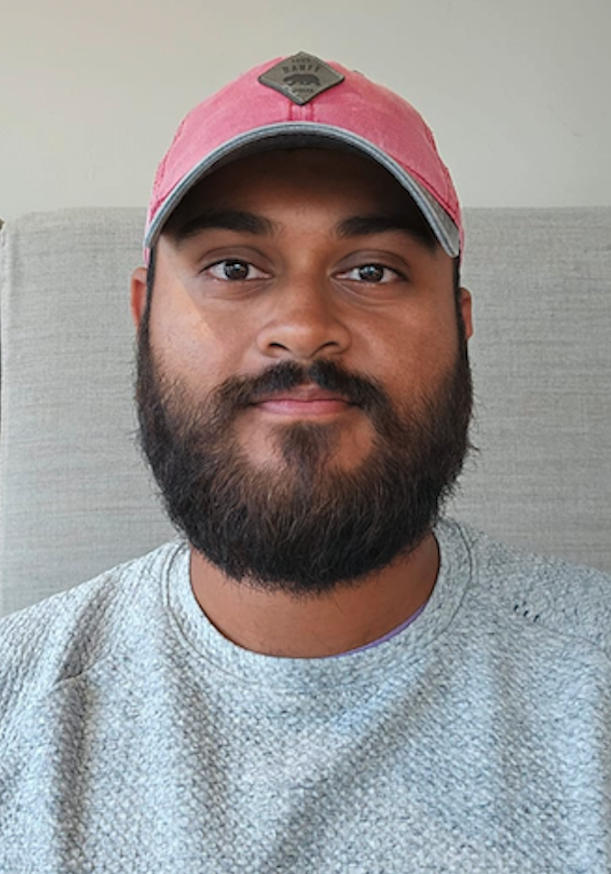
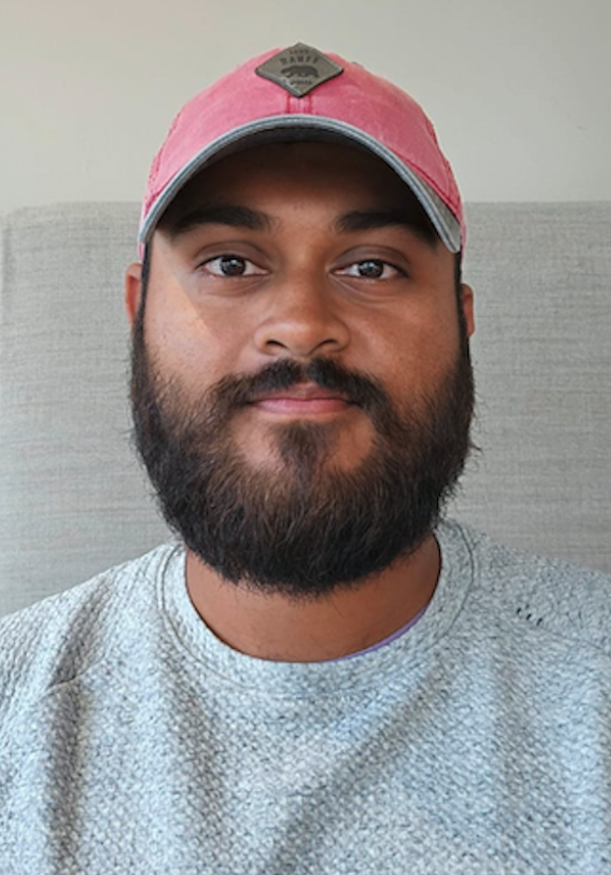
Update coaches page to have the new coaches
Also added some pics in assets

diff --git a/src/fr/coachesFR.html b/src/fr/coachesFR.html
@@ -50,97 +50,62 @@
 				<br><br>
 				<img src="../images/coaches_banner_fr.png" style="width: 100%;" alt="">
 				<div class="content-container">
-					<h3 class="text-center mt-5 mb-3">Entraîneur en chef</h3>
+					<h3 class="text-center mt-5 mb-3">Rencontrez les entraineurs</h3>
+					<br>
 					<div class="row">
-						<div class="col-md-9" style="align-self: center;">
-							<p><strong>Zhenya Kondratovski</strong> est <strong>l'entraîneur en chef</strong> du Club de
-								tennis de l'Université d'Ottawa. Il est entraîneur à temps plein au Rockcliffe Lawn and
-								Tennis Club.</p>
-							<p>Zhenya a commencé à jouer au tennis à l'âge de neuf ans à l'école de sport Dynamo de
-								Minsk, en Biélorussie. En tant que joueur junior, il a participé à des compétitions
-								provinciales et nationales et a été classé parmi les vingt premiers de l'URSS. Il a été
-								champion de Biélorussie en double masculin en 1989, enregistrant des victoires sur les
-								dix meilleurs joueurs du pays dans sa catégorie d'âge. Zhenya était également un
-								partenaire d'entraînement régulier pour des équipes nationales junior, les joueurs ATP
-								et WTA.</p>
-							<p>Il a obtenu un baccalauréat en entraînement et en éducation physique de l'Institut de la
-								culture physique et des sports
-								de la Biélorussie en 1990 et une maîtrise en études sportives (sociologie du sport) de
-								l'Université d'Ottawa en 1995. Il
-								a rejoint l'équipe de tennis de l'Université d'Ottawa en 1993-1994, puis est devenu
-								assistant et entraîneur en chef en
-								1997.</p>
-							<p>Zhenya est quatre fois champion du NCTA City Open en simple et en double, finaliste de
-								l'Ontario Open en double et
-								finaliste du Kunstadt Open. Zhenya était pro à temps plein au RTSC depuis 1995 et pro en
-								chef de 2007 à 2017 et a
-								travaillé avec de nombreux joueurs de calibre provincial, national et NCAA. Il est
-								entraîneur 2 et Club Pro 2 certifié
-								par Tennis Canada, certifié Cardio Tennis et membre de la TPA.</p>
-							<p>Zhenya a reçu le prix d'excellence en entraînement de Tennis Canada. Au cours de la
-								dernière année et demie, il a été entraîneur à la Sports Training Academy et, récemment,
-								coordonnateur
-								régional de l'Ontario Tennis Association pour Ottawa. Zhenya croit au partage de ses
-								connaissances, de son expérience et
-								de son amour du jeu avec ses étudiants. Il est toujours prêt à apprendre et à trouver de
-								nouvelles façons de transmettre
-								les habitudes et les connaissances du jeu, qui ne cesse d'évoluer et de changer.</p>
+						<div class="col-lg-3 col-md-4 col-sm-6">
+							<img alt="Zhenya Kondratovski" src="../images/zhen.png" class="player-pic">
+							<br>
+							<div class="d-flex align-items-center justify-content-center" style="height: 75px;">
+								<div>
+									<h5 class="text-center">Zhenya Kondratovski</h5>
+									<h6 class="text-center text-muted">Entraîneur en Chef</h6>
+								</div>
+							</div>
+							<div class="mb-4">
+								<p class="text-center mb-0"><b>Niveau de Certification:</b> Entraîneur 2 et Club Pro 2
+									Certifié par Tennis Canada</p>
+							</div>
 						</div>
-						<div class="col-md-3" style="align-self: center;">
-							<img class="coach-pic" src="../images/zhen.jpg" alt="Zhenya Kondratovski"
-								style="width:100%;">
+						<div class="col-lg-3 col-md-4 col-sm-6">
+							<img alt="Ramin Anam" src="../images/ramin.png" class="player-pic">
+							<br>
+							<div class="d-flex align-items-center justify-content-center" style="height: 75px;">
+								<div>
+									<h5 class="text-center">Ramin Anam</h5>
+									<h6 class="text-center text-muted">Entraîneur adjoint</h6>
+								</div>
+							</div>
+							<div class="mb-4">
+								<p class="text-center mb-0"><b>Niveau de Certification:</b> Club Pro 2 Certifié par
+									Tennis Canada</p>
+							</div>
 						</div>
-					</div>
-					<br>
-					<h3 class="text-center">Entraineurs adjoints</h3>
-					<br>
-					<div class="row justify-content-center" style="margin-bottom: 2%">
-						<div class="col-md-5 p-4 text-center">
-							<img class="coach-pic" src="../images/ramin.png" alt="Ramin Anam" width="50%">
+						<div class="col-lg-3 col-md-4 col-sm-6">
+							<img alt="Luka David" src="../images/luka.png" class="player-pic">
 							<br>
-							<br>
-							<p><strong>Ramin Anam</strong> est <strong>entraîneur adjoint</strong> pour le Club de
-								tennis de
-								l'Université d'Ottawa.
-							</p>
-							<p>Son parcours dans le tennis a commencé lorsqu'il a commencé à jouer à l'âge de 13 ans.
-								Bien que l'apprentissage de ce
-								sport ait été frustrant et difficile, il a été encouragé par sa famille à continuer à
-								développer son jeu, s'entraînant
-								régulièrement avec son père et sa sœur.</p>
-							<p>Ramin a eu le privilège d'être encadré par un certain nombre d'excellents entraîneurs à
-								Ottawa qui ont partagé leur
-								amour du sport à travers leurs enseignements. Cherchant à compléter ses heures de
-								bénévolat pour l'école secondaire,
-								Ramin a travaillé dans un camp de tennis de la semaine de relâche ; ce fut le début de
-								son parcours d'entraîneur.
-								Aujourd'hui, dix ans plus tard, Ramin est un professionnel du tennis à temps plein au
-								Centre de tennis de l'Ouest
-								d'Ottawa. Ramin détient la certification Club Pro 1 de Tennis Canada et poursuit
-								actuellement ses démarches pour obtenir
-								la certification Club Pro 2. Il aime trouver de nouvelles méthodes pour améliorer ses
-								compétences et ses connaissances
-								afin d'aider ses élèves à apprendre et à se développer à leur façon. Ramin est toujours
-								ravi de faire partie du parcours
-								d'un joueur qui s'efforce d'atteindre son potentiel.</p>
+							<div class="d-flex align-items-center justify-content-center" style="height: 75px;">
+								<div>
+									<h5 class="text-center">Luka David</h5>
+									<h6 class="text-center text-muted">Entraîneur adjoint</h6>
+								</div>
+							</div>
+							<div class="mb-4">
+								<p class="text-center mb-0"><b>Niveau de Certification:</b> Instructeur</p>
+							</div>
 						</div>
-						<div class="col-md-5 p-4 text-center">
-							<img class="coach-pic" src="../images/teoBio.JPG" alt="Ramin Anam" width="50%">
+						<div class="col-lg-3 col-md-4 col-sm-6">
+							<img alt="Dylan Crimmins" src="../images/dylan.png" class="player-pic">
 							<br>
-							<br>
-							<p><strong>Teo Novakovic</strong> est <strong>entraîneur
-									adjoint</strong> pour le Club de
-								tennis de
-								l'Université d'Ottawa.
-							</p>
-							<p>
-								Teo a participé à des compétitions de niveau national en juniors et a commencé à
-								entraîner à l'âge de 15 ans. Après
-								s'être entraîné pendant deux ans en Bosnie, il est revenu à Ottawa pour poursuivre ses
-								études. Grâce à son expérience en tant que joueur, Teo souhaite que l'équipe l'équipe
-								des Gee
-								Gees devienne plus compétitive et obtienne de meilleurs résultats.
-							</p>
+							<div class="d-flex align-items-center justify-content-center" style="height: 75px;">
+								<div>
+									<h5 class="text-center">Dylan Crimmins</h5>
+									<h6 class="text-center text-muted">Entraîneur adjoint</h6>
+								</div>
+							</div>
+							<div class="mb-4">
+								<p class="text-center mb-0"><b>Niveau de Certification:</b> N/A</p>
+							</div>
 						</div>
 					</div>
 				</div>

diff --git a/src/coaches.html b/src/coaches.html
@@ -50,88 +50,63 @@
 				<br><br>
 				<img src="images/coaches_banner_en.png" style="width: 100%;" alt="">
 				<div class="content-container">
-					<h3 class="text-center mt-5 mb-3">Head Coach</h3>
+					<h3 class="text-center mt-5 mb-3">Meet the coaches</h3>
+					<br>
 					<div class="row">
-						<div class="col-md-9" style="align-self: center;">
-							<p><strong>Zhenya Kondratovski</strong> is the <strong>Head Coach</strong> for the
-								University of Ottawa Tennis Club.
-								He is a full-time coach at the Rockcliffe Lawn and Tennis Club.</p>
-							<p> Zhenya started playing tennis at the age of nine at the Dynamo Sports School in Minsk,
-								Belarus.
-								As a junior player, he competed provincially and nationally and was ranked in the top
-								twenty in the USSR. He was the Belarus men’s doubles champion in 1989 and registered
-								wins over top ten players in the country in his age category.
-								Zhenya was also a regular hitting partner for junior national teams, ATP, and WTA
-								players.</p>
-							<p> He earned a B.A. in Coaching and Physical Education from the Belarus Institute of
-								Physical Culture and Sports in 1990 and
-								an M.A. in Sports Studies (Sociology of Sports) at the University of Ottawa, in 1995. He
-								joined the Ottawa U tennis team in 1993-1994, then became an assistant and a head coach
-								in 1997.</p>
-							<p> Zhenya is a four-time NCTA City Open
-								Champion in singles and doubles, an Ontario Open Doubles finalist, and a Kunstadt Open
-								finalist. Zhenya was the full-time pro at RTSC since 1995 and head pro from 2007-2017
-								and worked with many provincial, national, and NCAA calibre players.
-								He is a Tennis Canada certified Coach 2 and Club Pro 2, Cardio Tennis Certified and a
-								member of the TPA.</p>
-							<p> Zhenya is a recipient of the Coaching Excellence Award from Tennis Canada. In the past
-								year and a half, he has been a coach with
-								the Sports Training Academy and recently the Ontario Tennis Association regional
-								coordinator for Ottawa. Zhenya believes in sharing his knowledge, experience, and love
-								of the game with his students. He is always open to learning and finding
-								new ways to transmit habits and knowledge of the game, which keeps evolving and
-								changing.
+						<div class="col-lg-3 col-md-4 col-sm-6">
+							<img alt="Zhenya Kondratovski" src="images/zhen.png" class="player-pic">
+							<br>
+							<div class="d-flex align-items-center justify-content-center" style="height: 75px;">
+								<div>
+									<h5 class="text-center">Zhenya Kondratovski</h5>
+									<h6 class="text-center text-muted">Head Coach</h6>
+								</div>
+							</div>
+							<div class="mb-4">
+								<p class="text-center mb-0"><b>Certification level:</b> Tennis Canada Certified Coach 2
+									and Club Pro 2</p>
+							</div>
 						</div>
-						<div class="col-md-3">
-							<img class="coach-pic" src="images/zhen.jpg" alt="Zhenya Kondratovski" width="100%">
+						<div class="col-lg-3 col-md-4 col-sm-6">
+							<img alt="Ramin Anam" src="images/ramin.png" class="player-pic">
+							<br>
+							<div class="d-flex align-items-center justify-content-center" style="height: 75px;">
+								<div>
+									<h5 class="text-center">Ramin Anam</h5>
+									<h6 class="text-center text-muted">Assistant Coach</h6>
+								</div>
+							</div>
+							<div class="mb-4">
+								<p class="text-center mb-0"><b>Certification level:</b> Tennis Canada Certified Club Pro
+									1</p>
+
+							</div>
 						</div>
-					</div>
-					<br>
-					<br>
-					<h3 class="text-center">Assitant Coaches</h3>
-					<br>
-					<div class="row justify-content-center" style="margin-bottom: 2%">
-						<div class="col-md-5 p-4 text-center">
-							<img class="coach-pic" src="images/ramin.png" alt="Ramin Anam" width="50%">
+						<div class="col-lg-3 col-md-4 col-sm-6">
+							<img alt="Luka David" src="images/luka.png" class="player-pic">
 							<br>
-							<br>
-							<p><strong>Ramin Anam</strong> is an <strong>Assistant Coach</strong> for the
-								University of Ottawa Tennis Club.
-							</p>
-							<p>His journey in tennis began when he started
-								playing at the age of 13. While learning this sport was frustrating and
-								a challenge, he was encouraged to continue to develop his game by his family, regularly
-								practicing with his father and
-								sister.</p>
-							<p>
-								Ramin had the privilege of being mentored by a number of excellent coaches in Ottawa who
-								shared their love of the sport
-								through their teachings.
-								Looking to complete his volunteer hours for highschool, Ramin worked at a March Break
-								tennis camp; this was the start of
-								his coaching journey. Now, a decade later, Ramin is a full time tennis pro at the Tennis
-								Center West Ottawa. Ramin holds
-								the Tennis Canada certified Club Pro 1 designation and is currently pursuing
-								certification as a Club Pro 2.
-								He enjoys finding new methods to improve his skills and knowledge so he can help his
-								students learn and develop in their
-								own way. Ramin is always thrilled to be a part of a player's tennis journey as they
-								strive to reach their potential.
-							</p>
+							<div class="d-flex align-items-center justify-content-center" style="height: 75px;">
+								<div>
+									<h5 class="text-center">Luka David</h5>
+									<h6 class="text-center text-muted">Assistant Coach</h6>
+								</div>
+							</div>
+							<div class="mb-4">
+								<p class="text-center mb-0"><b>Certification level:</b> Instructor</p>
+							</div>
 						</div>
-						<div class="col-md-5 p-4 text-center">
-							<img class="coach-pic" src="images/teoBio.JPG" alt="Ramin Anam" width="50%">
+						<div class="col-lg-3 col-md-4 col-sm-6">
+							<img alt="Dylan Crimmins" src="images/dylan.png" class="player-pic">
 							<br>
-							<br>
-							<p><strong>Teo Novakovic</strong> is an <strong>Assistant Coach</strong>
-								for the
-								University of Ottawa Tennis Club.
-							</p>
-							<p>Teo has competed at a national level in juniors and began coaching at the age of 15.
-								After training for 2 years in
-								Bosnia, he came back in Ottawa to continue his studies. Through his experience as a
-								player, Teo wishes for
-								the Gee Gees team to become more competitive and achieve higher results.</p>
+							<div class="d-flex align-items-center justify-content-center" style="height: 75px;">
+								<div>
+									<h5 class="text-center">Dylan Crimmins</h5>
+									<h6 class="text-center text-muted">Assistant Coach</h6>
+								</div>
+							</div>
+							<div class="mb-4">
+								<p class="text-center mb-0"><b>Certification level:</b> N/A</p>
+							</div>
 						</div>
 					</div>
 				</div>
